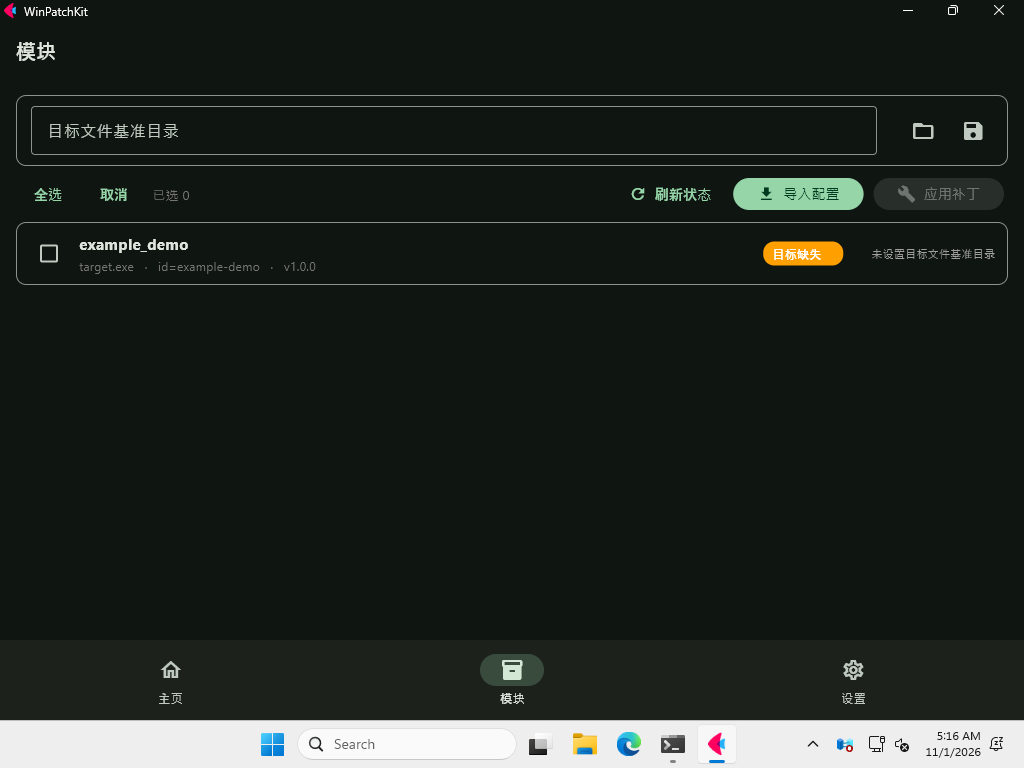
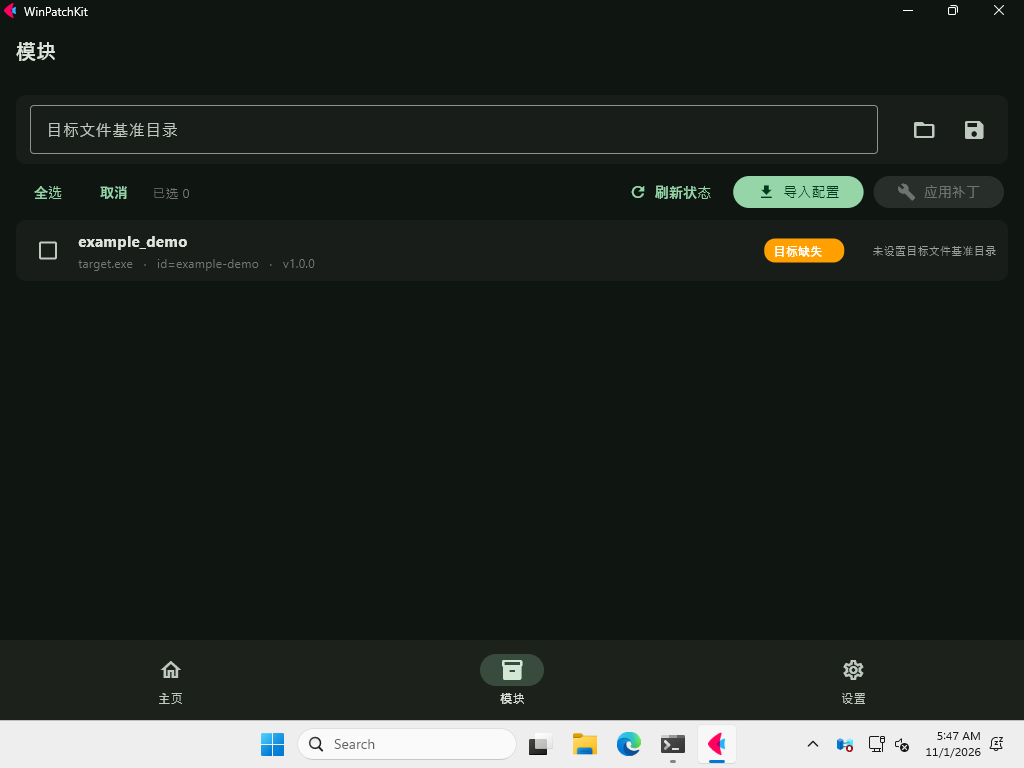
ui: 设置页个性化区套抬升表面做颜色分层 + 个性化标题加画笔图标

diff --git a/gui/pages/settings.py b/gui/pages/settings.py
@@ -122,19 +122,29 @@ class SettingsPage:
                            vertical_alignment=ft.CrossAxisAlignment.CENTER),
             padding=14,
             border_radius=14,
-            bgcolor=ft.Colors.SURFACE_CONTAINER_LOW,
+            bgcolor=ft.Colors.SURFACE_CONTAINER_HIGH,
             visible=not self.follow_switch.value,
         )
 
-        right_col = ft.Column(
-            [
-                ft.Text("个性化", size=16, weight=ft.FontWeight.BOLD),
-                ft.Container(height=6),
-                self.mode_dropdown,
-                self.follow_switch,
-                self.seed_grid,
-            ],
-            spacing=10,
+        # 个性化区整体包一层抬升表面（MD3E 风格：填充底色取代描边做分组）。
+        # 内部色块区再高一档 SURFACE_CONTAINER_HIGH，形成两级表面层次。
+        right_col = ft.Container(
+            content=ft.Column(
+                [
+                    ft.Row(
+                        [ft.Icon(ft.Icons.BRUSH, color=ft.Colors.PRIMARY),
+                         ft.Text("个性化", size=16, weight=ft.FontWeight.BOLD)],
+                        spacing=8,
+                        vertical_alignment=ft.CrossAxisAlignment.CENTER),
+                    ft.Container(height=6),
+                    self.mode_dropdown,
+                    self.follow_switch,
+                    self.seed_grid,
+                ],
+                spacing=10),
+            padding=ft.Padding.all(16),
+            border_radius=16,
+            bgcolor=ft.Colors.SURFACE_CONTAINER_LOW,
             expand=True,
         )
 
